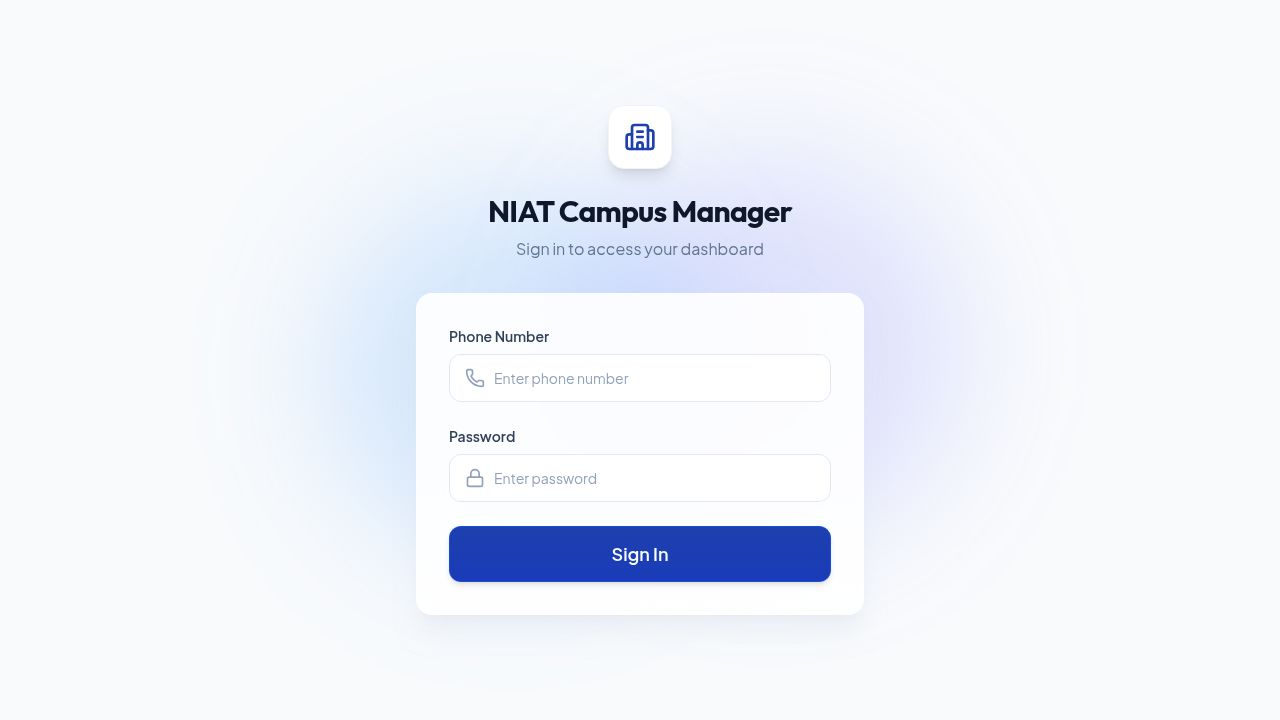
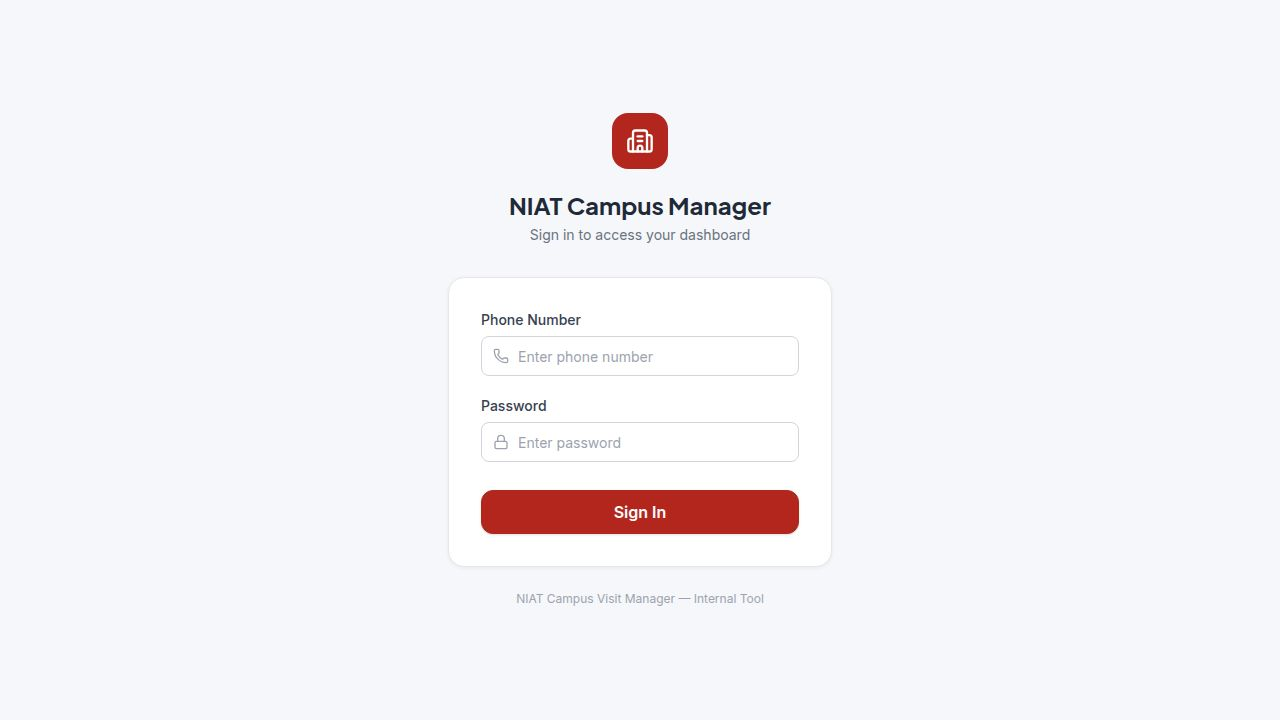
Update template configuration and restart servers
Modify template service to use configuration values and restart API and web servers.

Replit-Commit-Author: Agent
Replit-Commit-Session-Id: c0ee7841-d8a9-437d-ae58-555acd534836
Replit-Commit-Checkpoint-Type: full_checkpoint
Replit-Commit-Event-Id: 50410dc4-2e51-4cc4-8c1a-336be1498485
Replit-Commit-Screenshot-Url: https://storage.googleapis.com/screenshot-production-us-central1/3d43d3f9-8627-4d1f-8825-905de33113fb/c0ee7841-d8a9-437d-ae58-555acd534836/rKUwYYI
Replit-Helium-Checkpoint-Created: true

Changed region(s): [[0.2812, 0.275, 0.6562, 0.8556], [0.4688, 0.1528, 0.5312, 0.2444]]

diff --git a/artifacts/api-server/src/services/templateService.ts b/artifacts/api-server/src/services/templateService.ts
@@ -15,7 +15,10 @@ const getTemplateConfig = () => {
   };
 };
 
-export async function updateTemplate(userId: string, applicationId: string): Promise<void> {
+export async function updateTemplate(
+  userId: string,
+  applicationId: string,
+): Promise<void> {
   const { TEMPLATE_ID, SECTION_ID, FIELDS } = getTemplateConfig();
 
   if (!TEMPLATE_ID) throw new Error("TEMPLATE_ID is not configured");